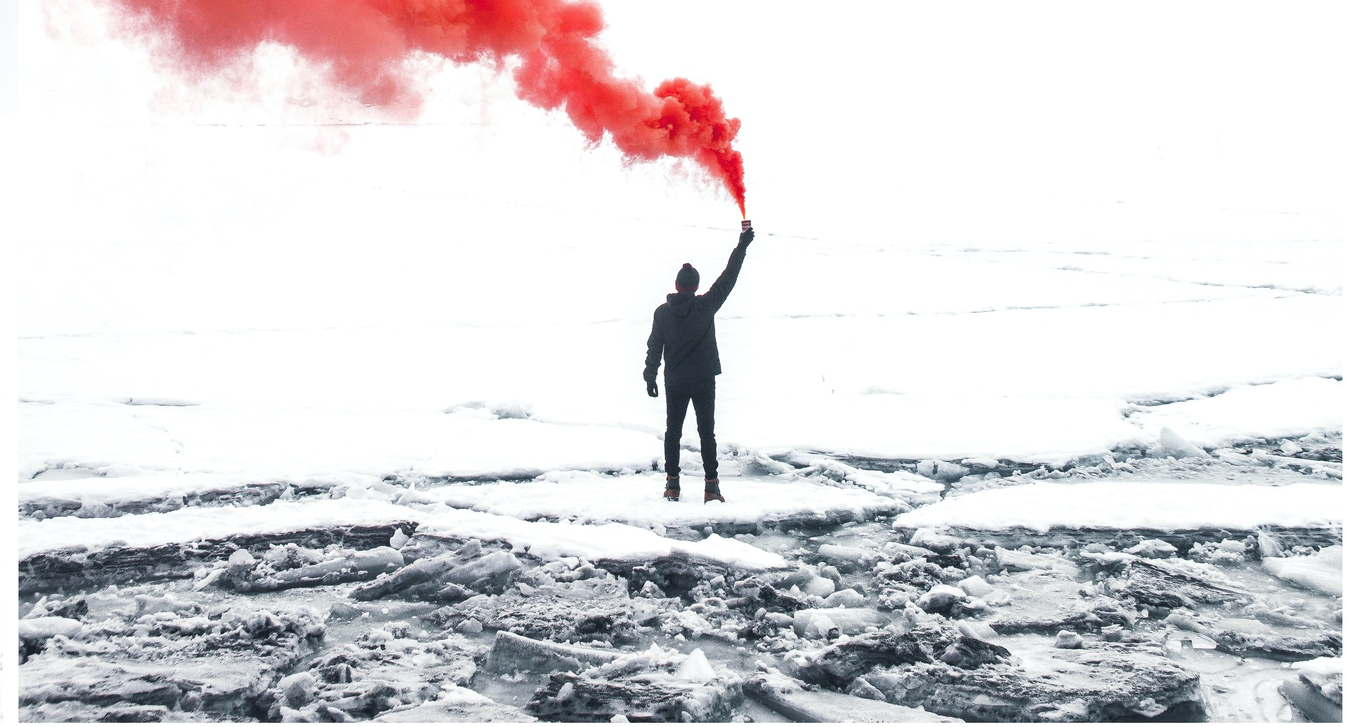
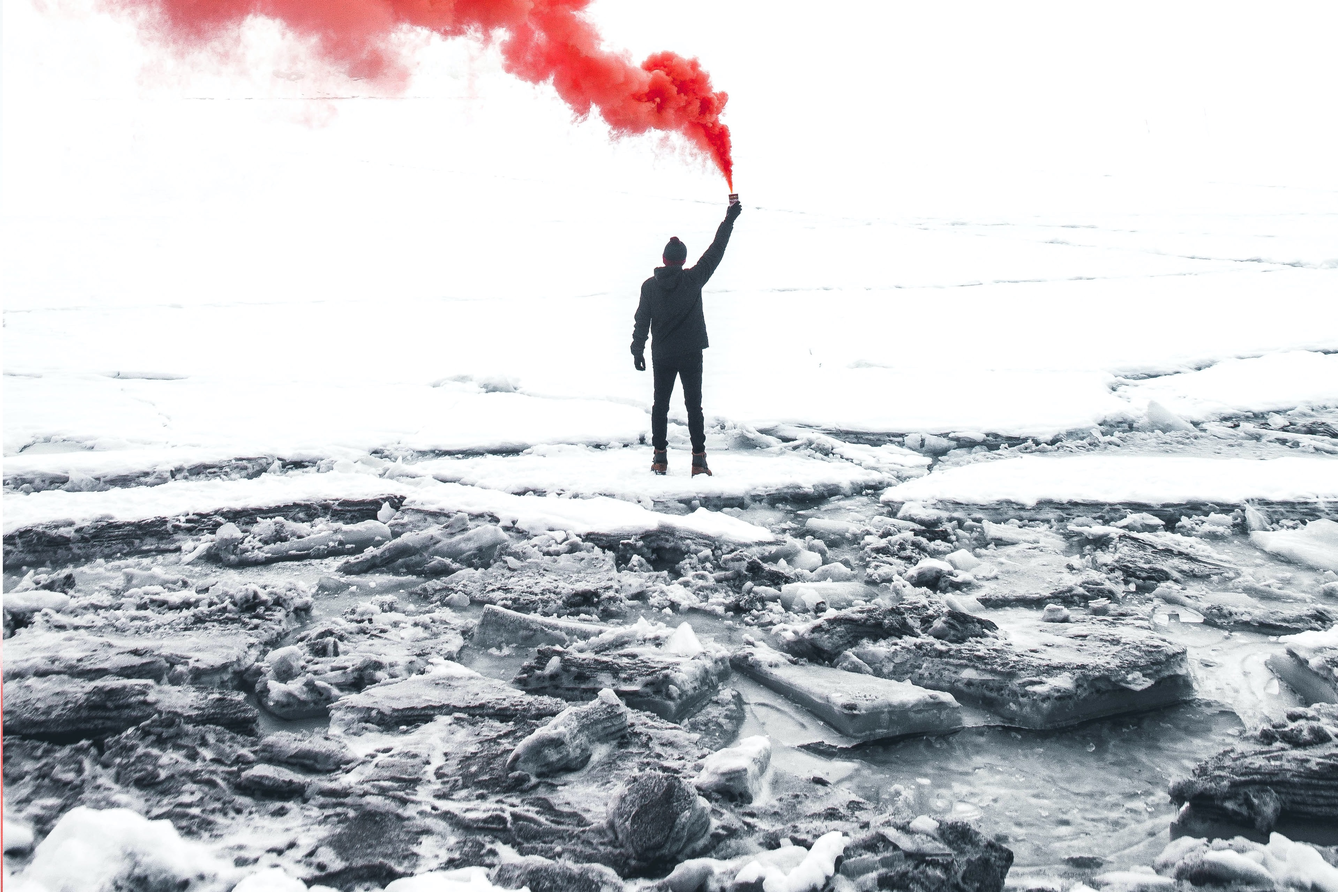
Fix: title img size format

diff --git a/index.html b/index.html
@@ -120,7 +120,7 @@
         <div class="col-md-4">
             <div class="content"><a href="topics/Communication.html">
                 <div class="content-overlay"></div>
-                <img class="content-image" src="images/uprising.jpg">
+                <img class="content-image" src="images/uprising_bg.jpg">
                 <div class="content-details fadeIn-bottom">
                     <h3 class="content-title">Communication Uprising</h3>
                     <p class="content-text"><i class="fa fa-map-marker"></i>Start Reading . . .</p>
